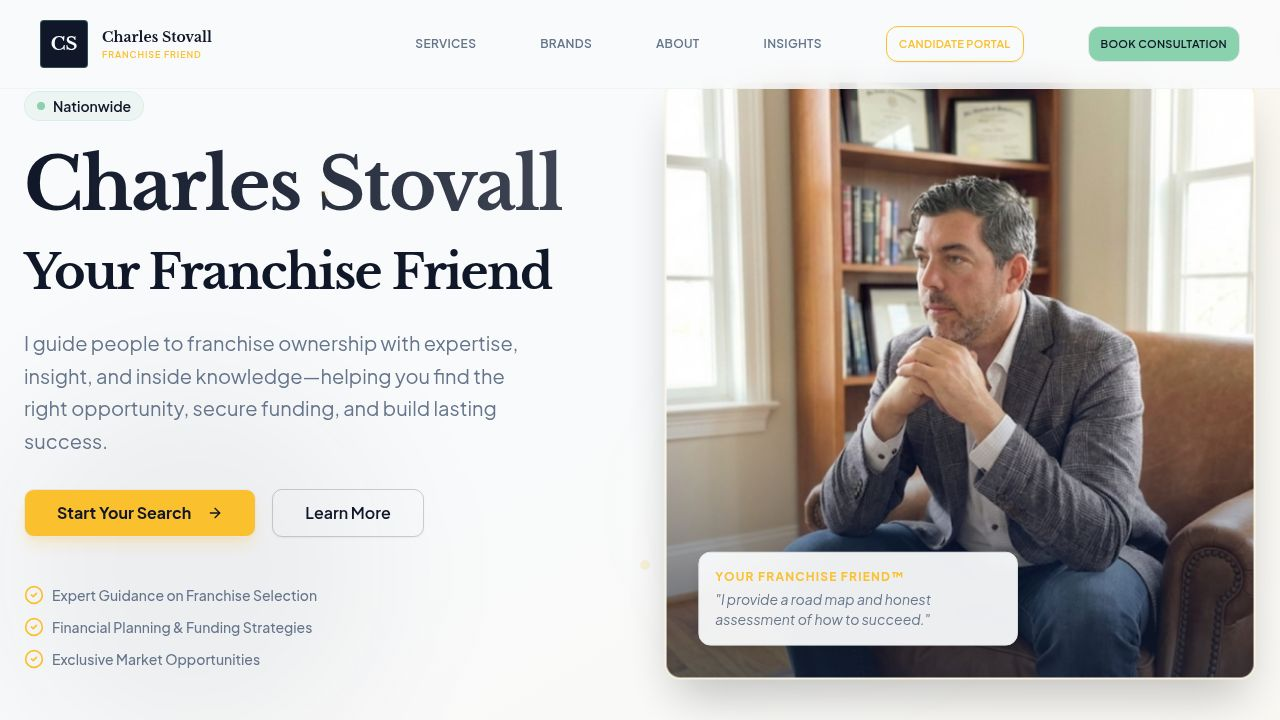
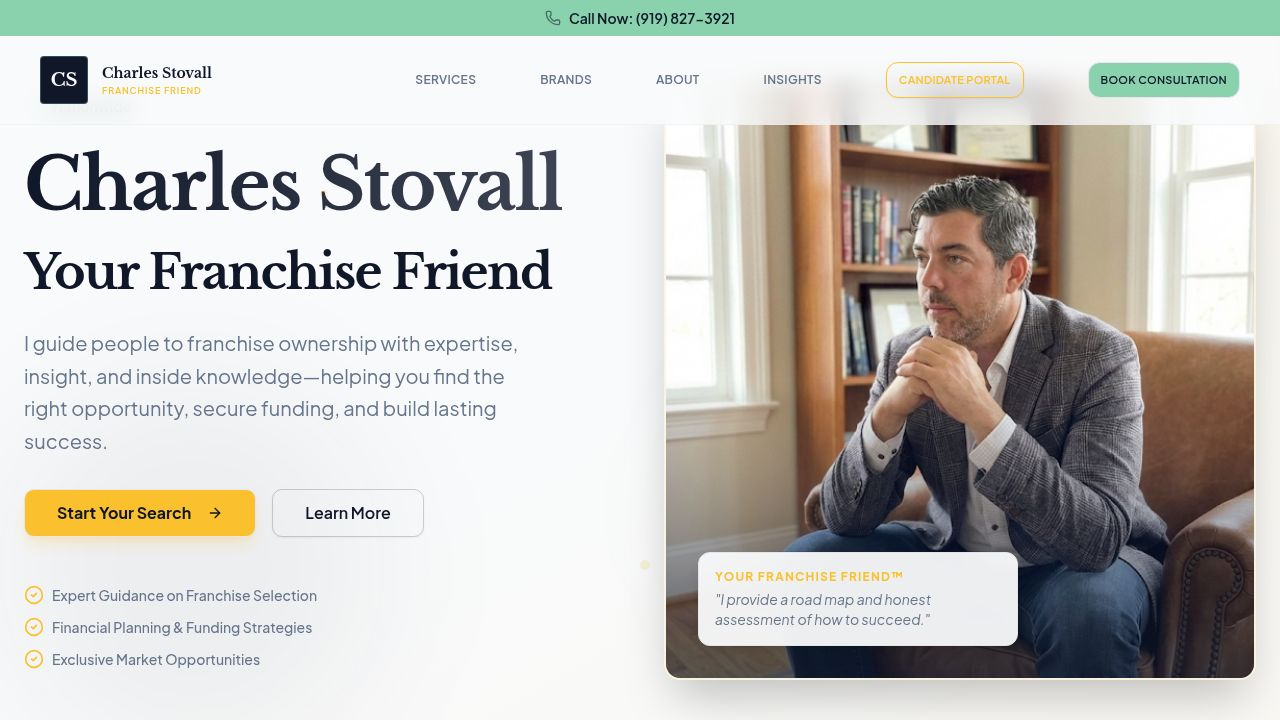
Add a prominent call to action for users to easily connect
Add a tap-to-call button to the application's header, making it simple for users to initiate a phone call directly from any page.

Replit-Commit-Author: Agent
Replit-Commit-Session-Id: ba06c198-ae2a-433e-9b72-3d3071ead013
Replit-Commit-Checkpoint-Type: full_checkpoint
Replit-Commit-Event-Id: 9e0f5ccf-4889-4f5d-8a03-7e0fa20e61f4
Replit-Commit-Screenshot-Url: https://storage.googleapis.com/screenshot-production-us-central1/515b29f0-1d64-4138-b143-4a5747dfb7ff/ba06c198-ae2a-433e-9b72-3d3071ead013/MjWPeB4

diff --git a/client/src/components/Navbar.tsx b/client/src/components/Navbar.tsx
@@ -1,6 +1,6 @@
 import { Link } from "wouter";
 import { Button } from "@/components/ui/button";
-import { Menu, X } from "lucide-react";
+import { Menu, X, Phone } from "lucide-react";
 import { useState } from "react";
 import { motion, AnimatePresence } from "framer-motion";
 
@@ -16,6 +16,14 @@ export function Navbar() {
 
   return (
     <nav className="fixed top-0 left-0 right-0 z-50 bg-background/80 backdrop-blur-md border-b border-border/40">
+      <a 
+        href="tel:9198273921" 
+        className="bg-accent-pop text-primary py-2 px-4 flex items-center justify-center gap-2 hover:bg-accent-pop/90 transition-colors"
+        data-testid="button-call-top"
+      >
+        <Phone size={16} className="animate-pulse" />
+        <span className="font-semibold text-sm">Call Now: (919) 827-3921</span>
+      </a>
       <div className="container mx-auto px-4 md:px-6">
         <div className="flex items-center justify-between py-5 px-4">
           {/* Logo */}
